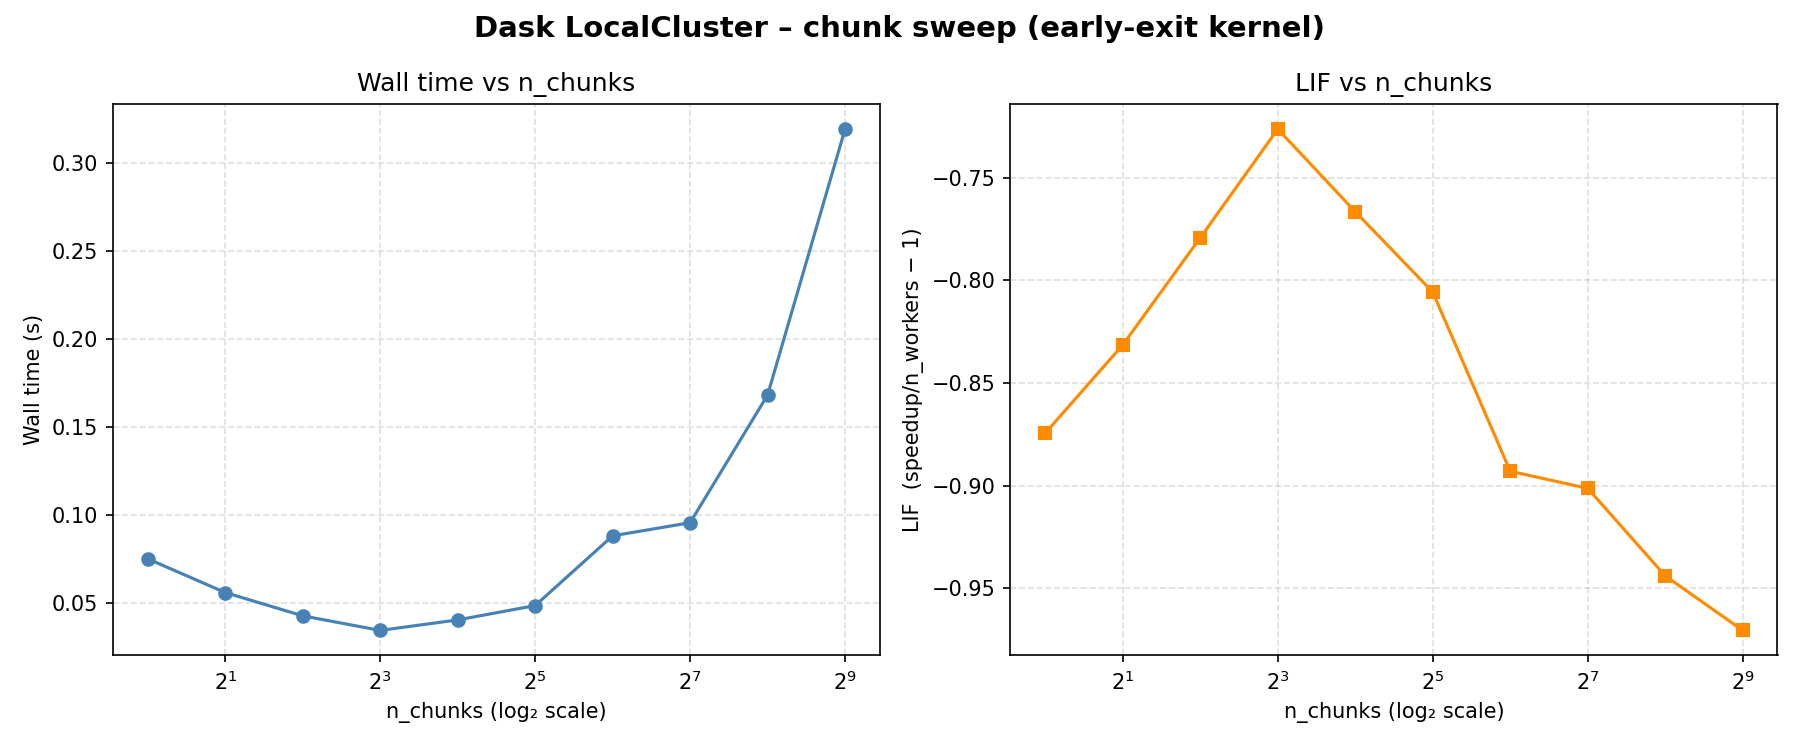
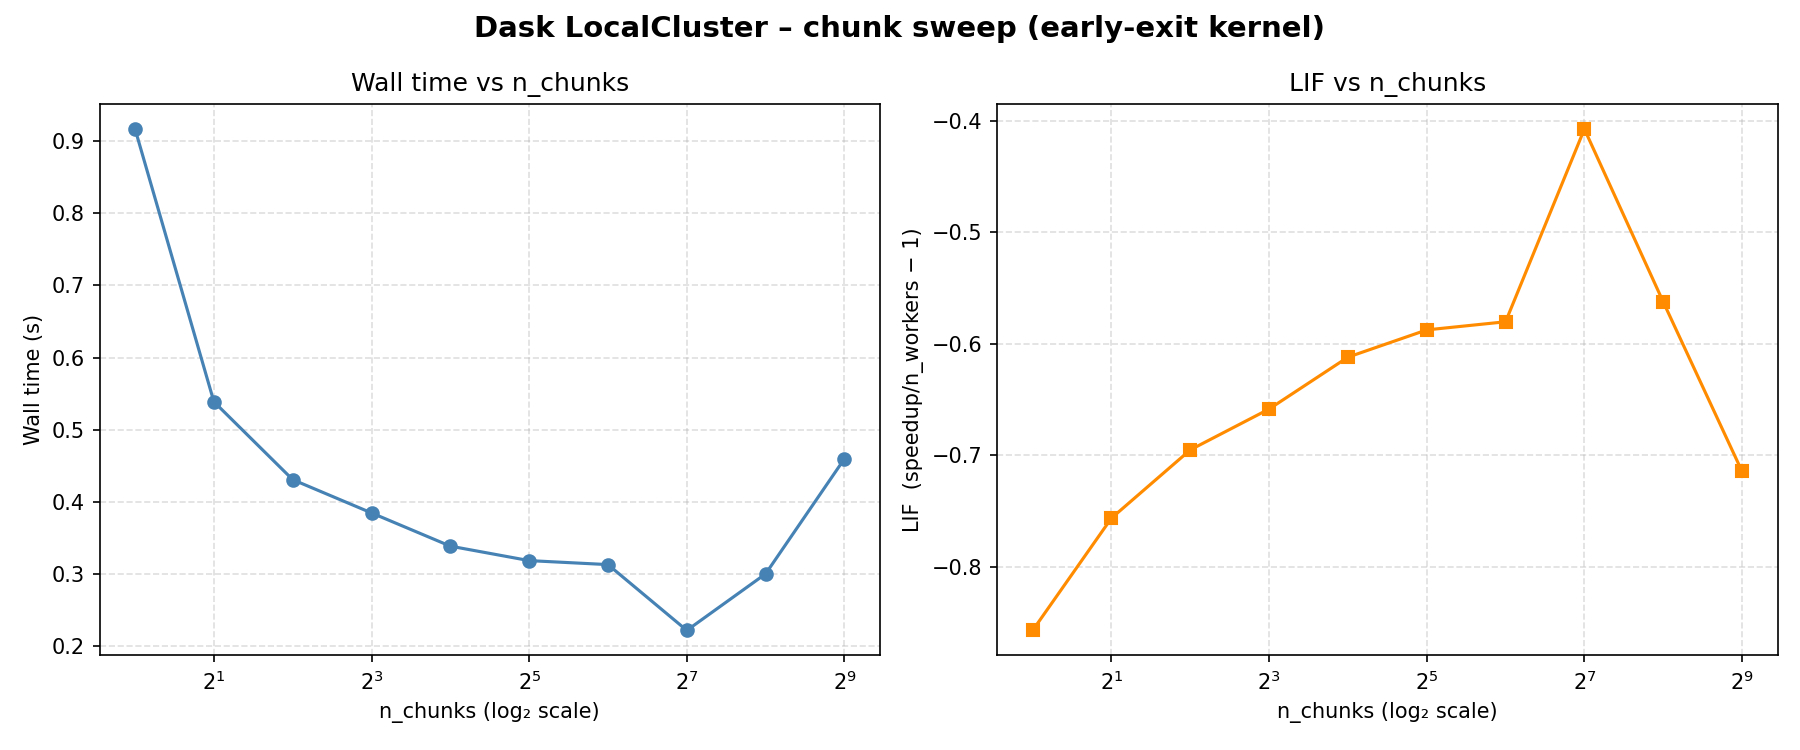
Starting adding text ot the MP2 aswell as making the mandelbrot_dask file print more data

diff --git a/mandelbrot_dask.py b/mandelbrot_dask.py
@@ -8,7 +8,7 @@ import matplotlib
 matplotlib.use("Agg")
 import matplotlib.pyplot as plt
 from numba import njit
-
+from mandelbrot import mandelbrot_serial, benchmark
 
 @njit(cache=True)
 def mandelbrot_chunk_opt(row_start, row_end, N, x_min, x_max, y_min, y_max, max_iter):
@@ -128,7 +128,7 @@ def plot_sweep(results, out_path="dask_chunk_sweep.png"):
 
 # ── Main ──────────────────────────────────────────────────────────────────────
 if __name__ == "__main__":
-    N        = 1024
+    N        = 8192
     MAX_ITER = 100
     X_MIN, X_MAX = -2.5, 1.0
     Y_MIN, Y_MAX = -1.25, 1.25
@@ -139,22 +139,43 @@ if __name__ == "__main__":
     # ── One cluster for all measurements ─────────────────────────────────────
     client = Client("tcp://10.92.1.232:8786") #10.92.1.232:8786
 
+    #cluster = LocalCluster(n_workers=8, threads_per_worker=1)
+    #client = Client(cluster)
+
     print(f"Dashboard: {client.dashboard_link}")
+
+    #numberOfWorkers = len(client.nthreads())
 
     # ── Warm up Numba JIT on every worker ────────────────────────────────────
     client.run(lambda: mandelbrot_chunk_opt(0, 8, 8, X_MIN, X_MAX, Y_MIN, Y_MAX, 10))
-    print("Numba JIT warmed up on all workers.\n")
+    print(f"Numba JIT warmed up on all {len(client.nthreads())} workers.\n")
 
     # ── Sweep ─────────────────────────────────────────────────────────────────
     results = sweep(client, N, X_MIN, X_MAX, Y_MIN, Y_MAX, MAX_ITER, CHUNK_VALUES)
 
     client.close()
+    #cluster.close()
 
     # ── Summary ───────────────────────────────────────────────────────────────
     best = min(results, key=lambda r: r["t"])
     print(f"\n  n_chunks optimal : {best['n_chunks']}")
     print(f"  t_min            : {best['t']:.3f} s")
     print(f"  LIF at optimum   : {best['lif']:.3f}")
+
+    #Run the benchmark on the serial version to get the reference time
+    
+    mandelbrot_serial(N, X_MIN, X_MAX, Y_MIN, Y_MAX, MAX_ITER) # warm-up
+    serial_times = []
+    for _ in range(3):
+        t0 = time.perf_counter()
+        mandelbrot_serial(N, X_MIN, X_MAX, Y_MIN, Y_MAX, MAX_ITER)
+        serial_times.append(time.perf_counter() - t0)
+    serial_time = statistics.median(serial_times)
+
+    print(f"\n  Serial reference time: {serial_time:.3f} s")
+
+
+
 
     # ── Plot ──────────────────────────────────────────────────────────────────
     plot_sweep(results, out_path="dask_chunk_sweep.png")
